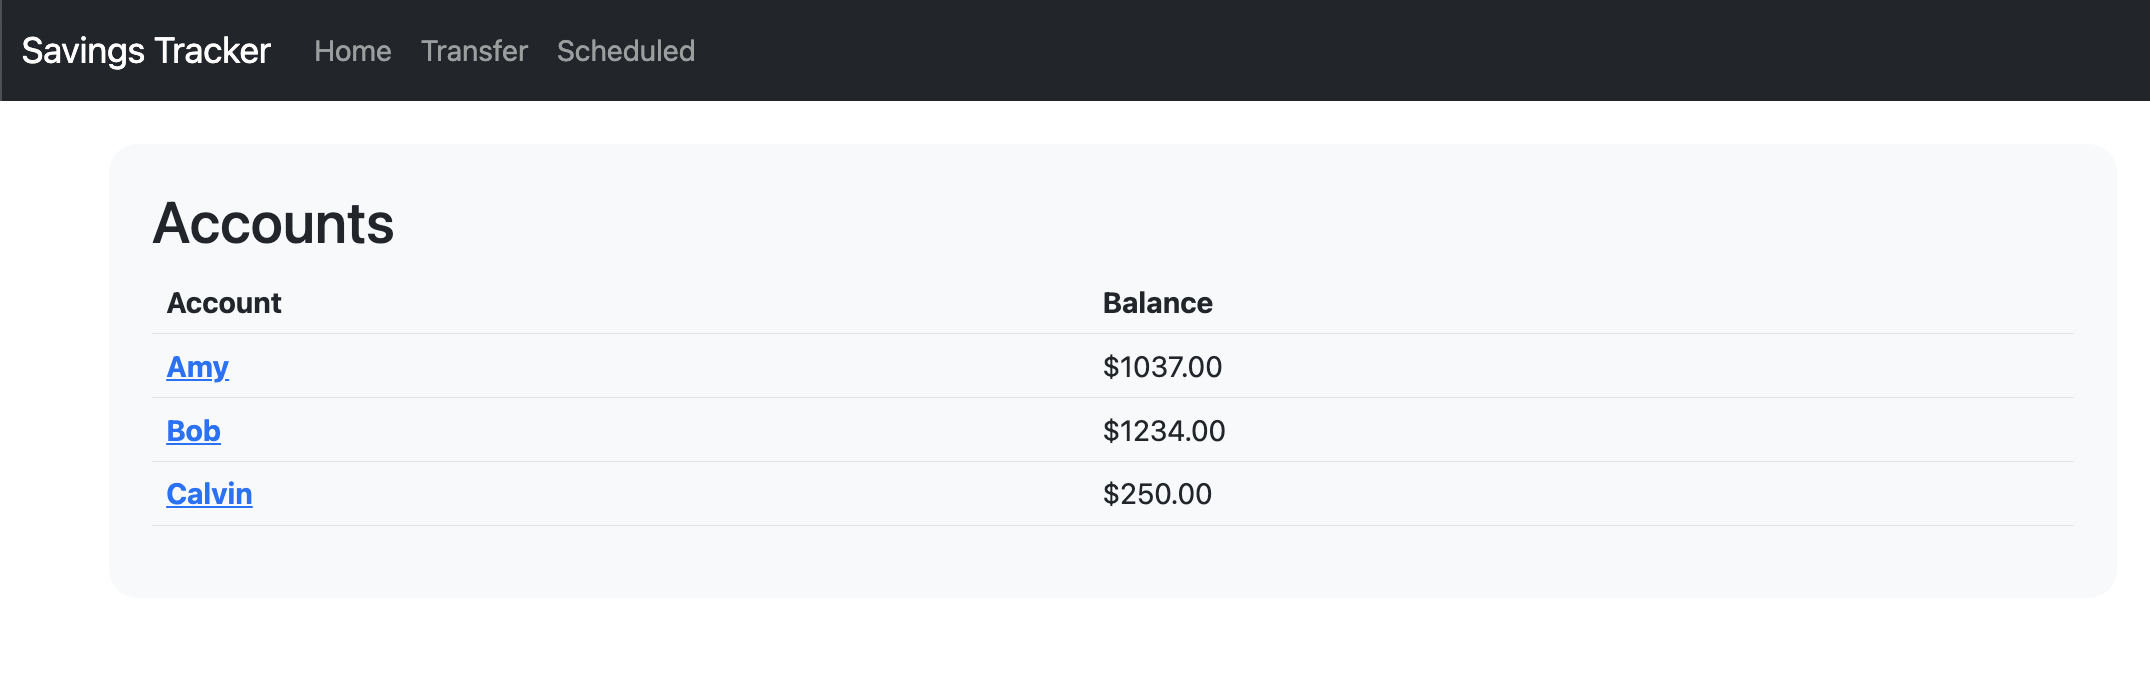
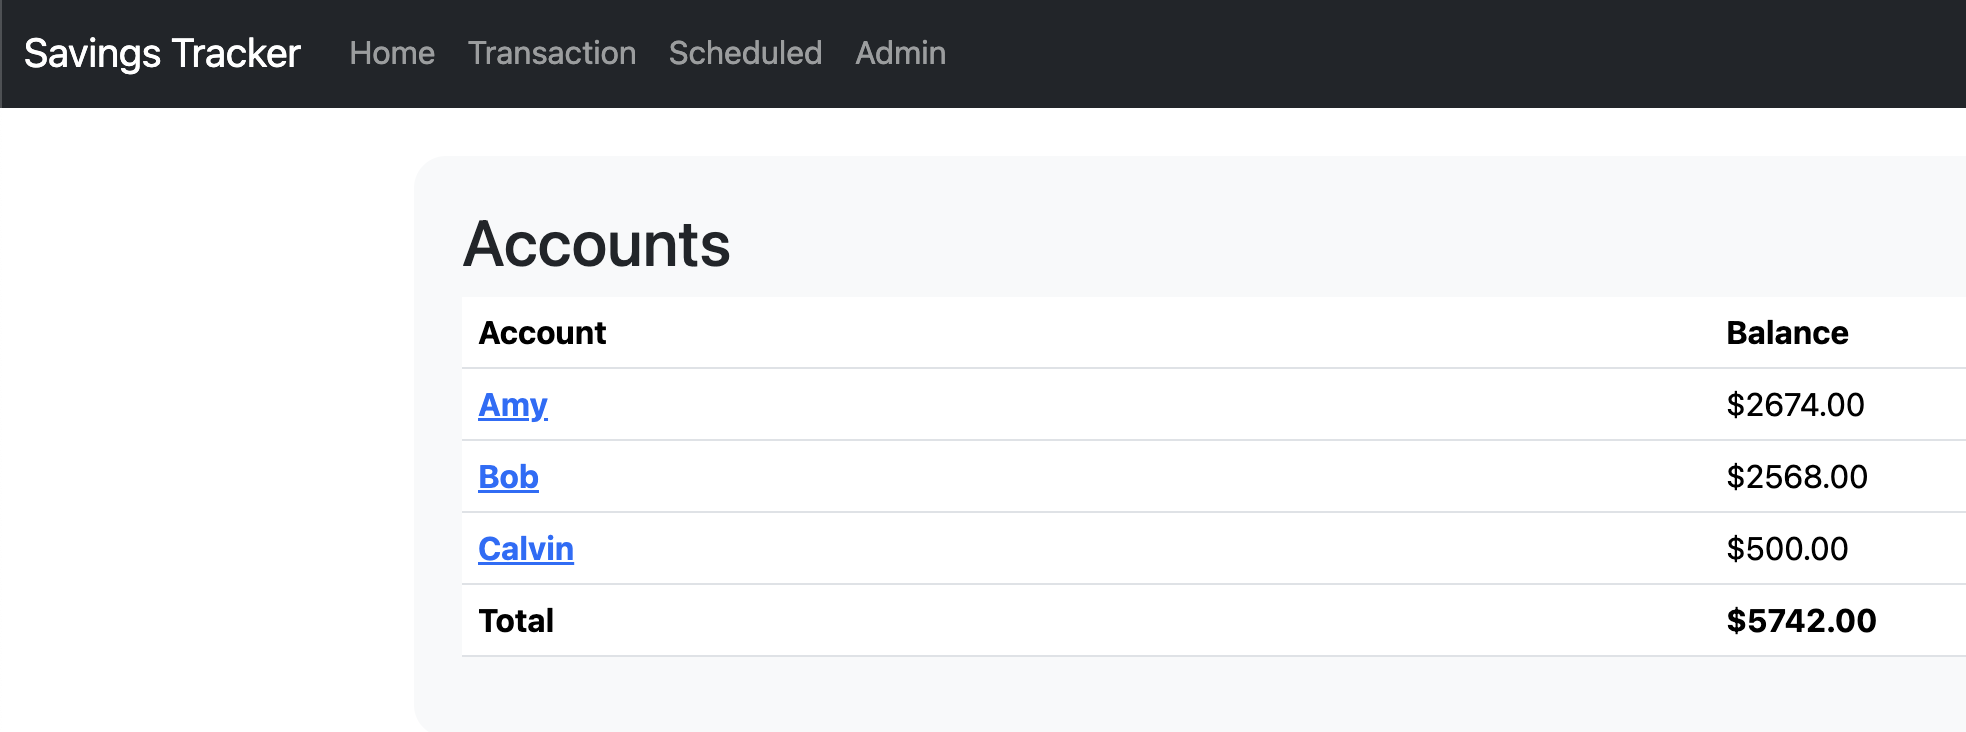
Retitle transfer -> transaction

diff --git a/savings_tracker/templates/nav.html b/savings_tracker/templates/nav.html
@@ -7,7 +7,7 @@
         <div class="collapse navbar-collapse" id="navbarCollapse">
             <div class="navbar-nav">
                 <a href="/" class="nav-item nav-link">Home</a>
-                <a href="/transfer/" class="nav-item nav-link">Transfer</a>
+                <a href="/transaction/" class="nav-item nav-link">Transaction</a>
               	<a href="/scheduled/" class="nav-item nav-link">Scheduled</a>
                 <a href="/admin/" class="nav-item nav-link">Admin</a>
             </div>

diff --git a/savings_tracker/templates/transaction.html b/savings_tracker/templates/transaction.html
@@ -12,8 +12,8 @@
     <main role="main">
         <div class="container">
             <div class="p-4 my-4 bg-light rounded-4">
-            <h2>Make a Transfer</h2>
-            <form action="/transfer/" method="post">
+            <h2>Make a Transaction</h2>
+            <form action="/transaction/" method="post">
                 {% csrf_token %}
                 {{form|crispy}}
                 <button type="submit" class="btn btn-primary">Submit</button>

diff --git a/savings_tracker/views.py b/savings_tracker/views.py
@@ -2,7 +2,7 @@ from django.http import HttpResponseRedirect
 from django.shortcuts import render
 import datetime
 from savings_tracker.models import Account, Transaction, ScheduledTransfer
-from savings_tracker.forms import TransferForm
+from savings_tracker.forms import TransactionForm
 
 def home(request):
     total_balance = sum([account.balance for account in Account.objects.all()])
@@ -18,9 +18,9 @@ def account(request, account_id):
 
     return render(request, "account.html", {'transactions': transaction_list, 'account': account})
 
-def transfer(request):
+def transaction(request):
     if request.method == 'POST':
-        form = TransferForm(request.POST)
+        form = TransactionForm(request.POST)
         if form.is_valid():
             t = Transaction()
             t.account = Account.objects.get(name=form.cleaned_data['account'])
@@ -34,5 +34,5 @@ def transfer(request):
 
             return HttpResponseRedirect('/')
     else:
-        form = TransferForm()
-    return render(request, "transfer.html", {'form': form})
+        form = TransactionForm()
+    return render(request, "transaction.html", {'form': form})

diff --git a/savings_tracker/forms.py b/savings_tracker/forms.py
@@ -4,7 +4,7 @@ from djmoney.models.fields import MoneyField
 
 TYPES = [('withdrawal','withdrawal'), ('deposit','deposit')]
 
-class TransferForm(forms.Form):
+class TransactionForm(forms.Form):
     account = forms.ChoiceField(label='Account', choices=[])
     type = forms.ChoiceField(widget=forms.RadioSelect(), initial=TYPES[0], choices=TYPES)
     amount = forms.DecimalField(max_digits=8, decimal_places=2)

diff --git a/urls.py b/urls.py
@@ -20,7 +20,7 @@ from savings_tracker import views
 urlpatterns = [
     path("admin/", admin.site.urls),
     path('', views.home, name='home'),
-    path('transfer/', views.transfer, name='transfer'),
+    path('transaction/', views.transaction, name='transaction'),
     path('scheduled/', views.scheduled, name='scheduled'),
     path('account/<str:account_id>/', views.account),
 ]

diff --git a/README.md b/README.md
@@ -40,11 +40,11 @@ Thanks to Bootstrap, the look and feel is simple, but clean. Both desktop and mo
 ### Account Page
 <img src="https://github.com/kvecchione/savings-tracker/blob/main/docs/images/account.png?raw=true" width="500">
 
-### Transfers
-<img src="https://github.com/kvecchione/savings-tracker/blob/main/docs/images/transfer.png?raw=true" width="500">
+### Transactions
+<img src="https://github.com/kvecchione/savings-tracker/blob/main/docs/images/transaction.png?raw=true" width="500">
 
 ### Scheduled Transfers
 <img src="https://github.com/kvecchione/savings-tracker/blob/main/docs/images/scheduled.png?raw=true" width="500">
 
-### Mobile Example
-<img src="https://github.com/kvecchione/savings-tracker/blob/main/docs/images/mobile_transfer.png?raw=true" width="300">
+### Mobile Transactions
+<img src="https://github.com/kvecchione/savings-tracker/blob/main/docs/images/mobile_transaction.png?raw=true" width="300">
